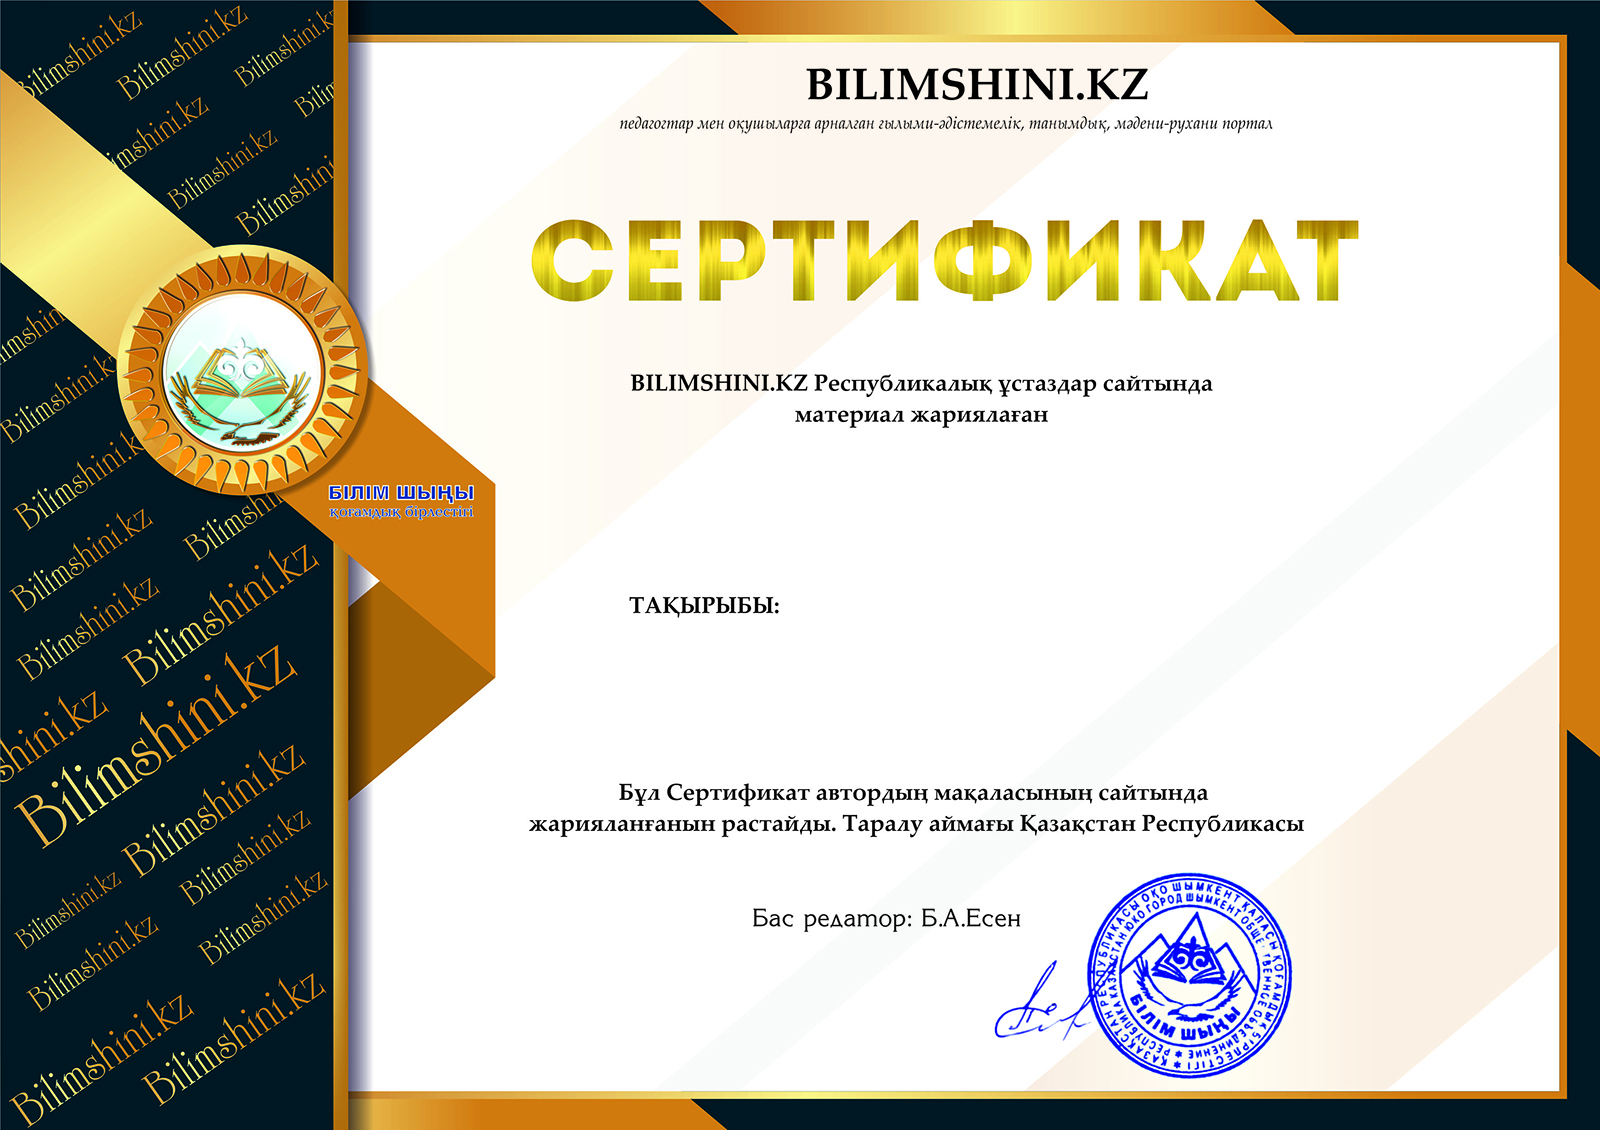
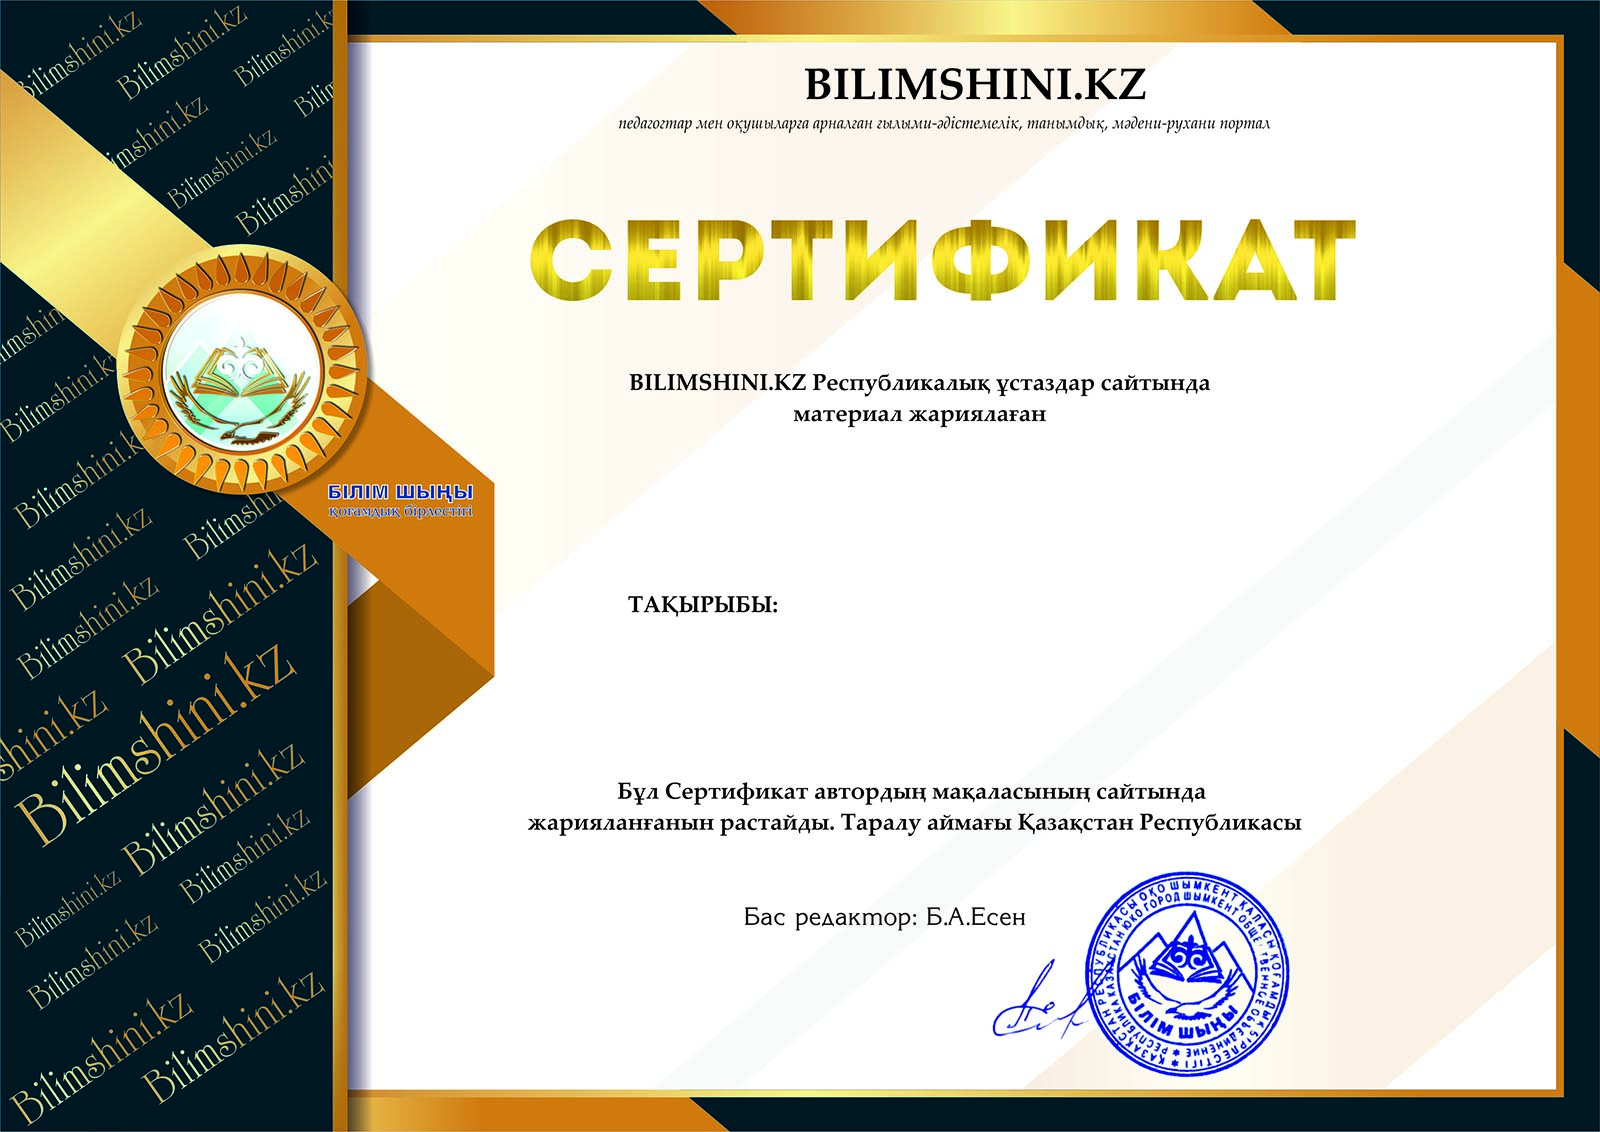
Some fixes

diff --git a/frontend/views/article/_cert.php b/frontend/views/article/_cert.php
@@ -4,12 +4,14 @@
 ?>
 <div>
     <div class="cert-page" style="background-image: url('/img/cert.jpg'); background-size: cover; background-repeat: no-repeat; width: 1400px; height: 1200px; font-family: 'Times New Roman';">
-        <div id="cert-name" style="padding-top: 400px; padding-left: 460px; width: 700px; text-align: center; font-size: 42px; font-weight: bold; color: #a58619;"><?= $model->surname . ' ' . $model->name . ' ' . $model->patronymic ?></div>
-        <div id="cert-school" style="padding-top: 5px; padding-left: 160px; font-size: 18px; color: #000000; height: 20px; width: 100%; text-align: center"><?= $model->school->name ?></div>
-        <div id="cert-topic" style="padding-top: 30px; padding-left: 680px; font-size: 22px; color: #000000; height: 20px;"><?= $model->topic ?></div>
-        <div id="cert-link" style="padding-top: 40px; padding-left: 540px; font-size: 21px; color: #3a3a3a; height: 20px; font-weight: 400"><span style="font-weight: bold">Жарияланған материалдар веб сілтемесі:</span>
-            <br> <?= Yii::$app->params['staticDomain'] . '/project/' . $model->file ?></div>
-        <div id="cert-date" style="padding-top: 200px; padding-left: 650px; font-size: 20px; color: #000000;">Күні: <?= date('d.m.Y') ?></div>
-        <div id="cert-number" style="padding-top: 5px; padding-left: 650px; font-size: 20px; color: #000000;">Түркеу №<?= $model->id ?></div>
+        <div id="cert-name" style="padding-top: 400px; padding-left: 320px; width: 1000px; text-align: center; font-size: 32px; font-weight: bold; color: #ab7f36;"><?= $model->surname . ' ' . $model->name . ' ' . $model->patronymic ?></div>
+        <div id="cert-school" style="padding-top: 5px; padding-left: 320px; font-size: 18px; color: #000000; height: 20px; width: 1000px; text-align: center"><?= $model->school->name ?></div>
+        <div id="cert-topic" style="padding-top: 42px; padding-left: 680px; font-size: 22px; color: #000000; height: 20px;"><?= $model->topic ?></div>
+        <div id="cert-link" style="padding-top: 40px; padding-left: 540px; font-size: 21px; color: #3a3a3a; height: 20px; font-weight: 400"><span style="font-weight: bold">Жарияланған материалдар веб сілтемесі:</span></div>
+        <div style="text-align: center; font-size: 16px; font-weight: bold; padding-left: 380px; width: 860px">
+            <?= Yii::$app->params['staticDomain'] . '/project/' . $model->file ?>
+        </div>
+        <div id="cert-date" style="padding-top: 160px; padding-left: 644px; font-size: 20px; color: #000000;">Күні: <?= date('d.m.Y') ?></div>
+        <div id="cert-number" style="padding-top: 5px; padding-left: 644px; font-size: 20px; color: #000000;">Тіркеу №<?= $model->id ?></div>
     </div>
 </div>

diff --git a/frontend/views/site/contact.php b/frontend/views/site/contact.php
@@ -69,7 +69,7 @@ $this->params['breadcrumbs'][] = ['label' => $this->title, 'url' => ['site/conta
                 <a href="tel:87083176516"><i class="fa fa-phone"></i> +7(708) 317 65 16 ( WhatsApp )</a>
             </li>
             <li class="contact-list__item">
-                <a href="tel:87472339745"><i class="fa fa-phone"></i> +7(747) 233 97 45 ( WhatsApp )</a>
+                <a href="tel:87472339745"><i class="fa fa-phone"></i> +7(747) 233 97 35 ( WhatsApp )</a>
             </li>
             <li class="contact-list__item">
                 <a href="mailto:photo-studio@bilimshini.kz"><i class="fa fa-envelope"></i> photo-studio@bilimshini.kz</a>

diff --git a/frontend/views/layouts/_footer.php b/frontend/views/layouts/_footer.php
@@ -94,7 +94,7 @@ use yii\helpers\Url;
                         <a href="tel:87083176516">+7(708) 317 65 16</a>
                     </li>
                     <li class="footer-list__item">
-                        <a href="tel:87472339745">+7(747) 233 97 45</a>
+                        <a href="tel:87472339745">+7(747) 233 97 35</a>
                     </li>
                     <li class="footer-list__item">
                         <a href="mailto:photo-studio@bilimshini.kz"><i class="fa fa-envelope"></i> photo-studio@bilimshini.kz</a>
